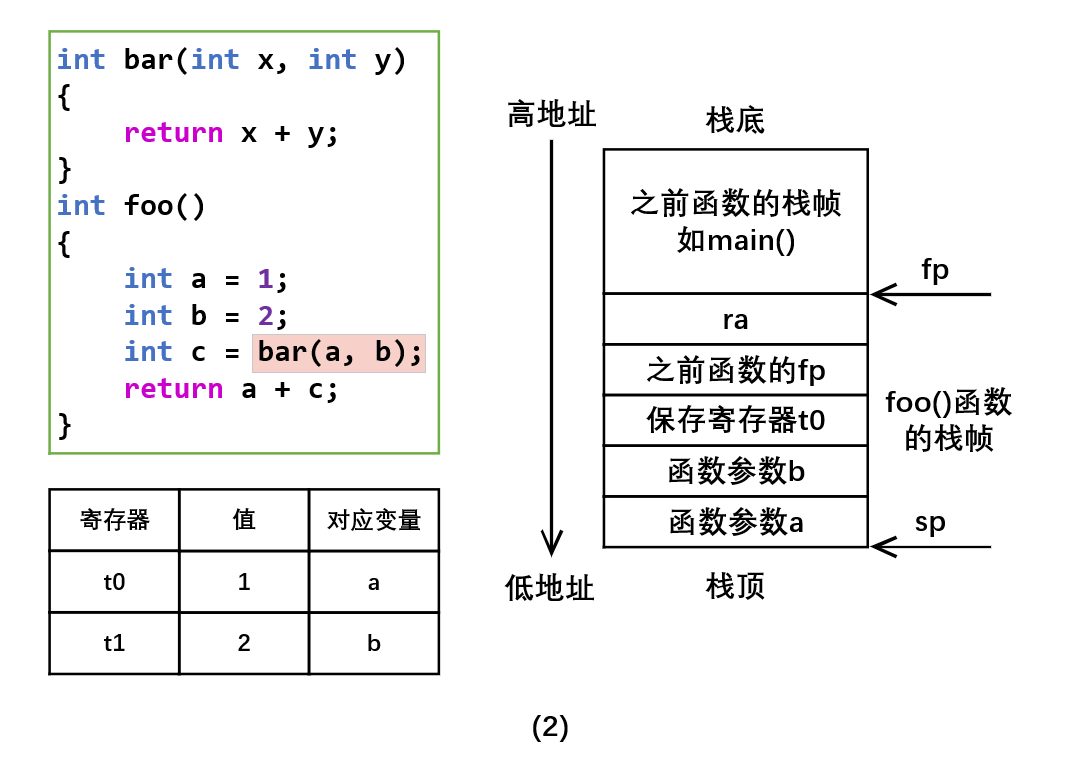
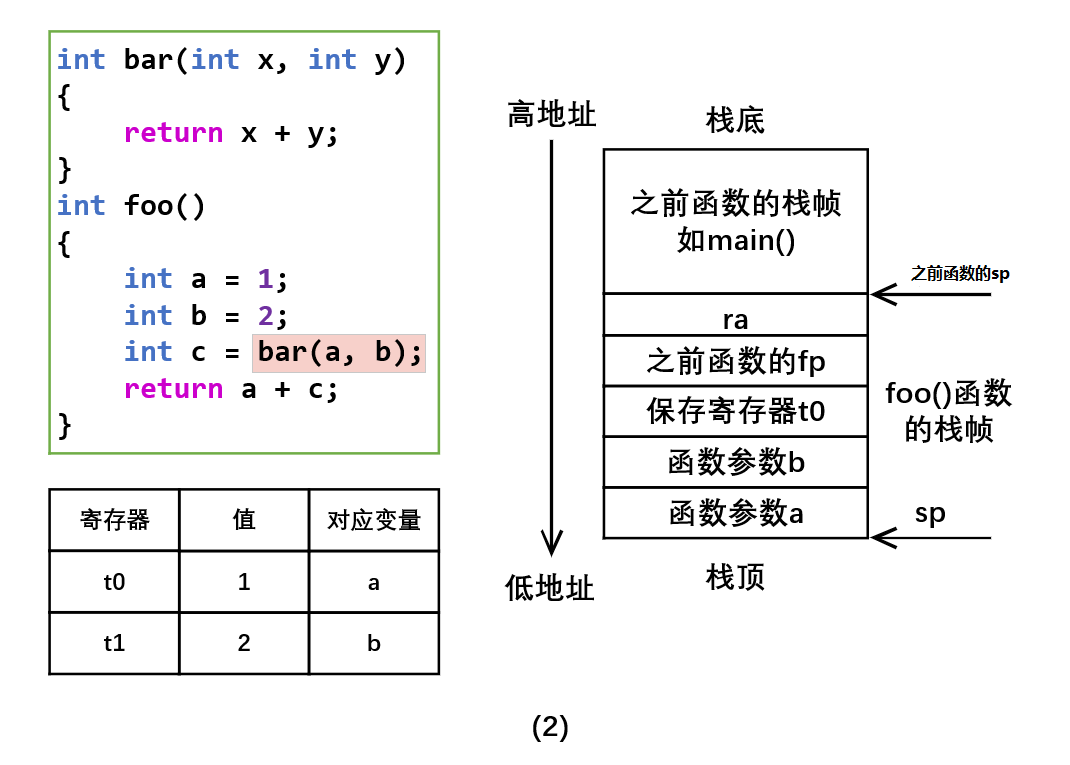
update step 9

Changed region(s): [[0.5551, 0.4209, 0.9561, 0.7817], [0.8636, 0.3307, 0.9561, 0.3908]]

diff --git a/docs/step9/example.md b/docs/step9/example.md
@@ -154,7 +154,6 @@ main_exit:
 
 首先你需要参考之前步骤中实现的方法，**翻译本步骤中新增的中间代码指令**。
 
-
 ### 函数调用
 
 程序代码里的一个函数调用，包含了下面一系列的操作：
@@ -170,6 +169,59 @@ main_exit:
 ### 调用约定
 
 位了简化同学们的实现，实验测例中没有与 gcc 编译的文件相互调用的要求，因此，大家不一定需要实现标准调用约定。你甚至可以完全使用栈来传递参数，而不使用寄存器。但是，如果你想要实现标准调用约定，可以参考下面的内容。
+
+#### 简化版的非标准调用约定
+
+1. caller-saved 和 callee-saved 寄存器
+
+   callee 只需要保存 ra 寄存器。ra 寄存器保存函数返回地址。程序实验框架中提供了数据流分析模块，caller 只需保存活跃变量对应的寄存器内容（数据流分析和活跃变量见 step6）。
+
+2. 函数参数及返回值的传递
+
+   不使用寄存器进行传参，所有参数从右往左压栈，第 1 个参数在栈顶。
+
+   返回值（32 位 int）放在 a0 寄存器中。
+
+### 函数调用过程中的栈帧变化（使用非标准调用约定）
+
+为了帮助大家更好的理解，我们使用上述的**简化版的非标准调用约定**，画出了一段具有代表性的程序，其整个运行过程中栈帧的组成部分以及变化。代表性程序如下：
+
+```C
+int bar (int x, int y) {
+    return x + y;
+}
+int foo () {
+    int a = 1; 
+    int b = 2;
+    int c = foo(a, b);
+    // return a+c 的目的是为了讲解保存活跃变量的情况
+    return a + c;         
+}
+```
+
+![ ](./pics/1.png)
+
+（1） foo 函数被调用，栈帧建立，变量 a 与 b 被分配对应寄存器。
+
+![ ](./pics/2.png)
+
+（2）调用 bar 函数，由于变量 a 在函数调用结束之后还需要被使用（a+c），是活跃变量，需要保存到栈中。另外，按照调用约定对函数参数进行压栈传参。
+
+![ ](./pics/3.png)
+
+（3）bar 函数内部进行运算，主要关注寄存器变化，栈帧方面仅仅是建立了 bar 函数的栈帧。
+
+![ ](./pics/4.png)
+
+（4）bar 函数调用返回，其栈帧被销毁。
+
+![ ](./pics/5.png)
+
+（5）foo 函数调用返回，其栈帧被销毁。
+
+
+接下来详细介绍比较标准的函数调用的步骤和约定，以及函数调用及返回过程中栈帧的变化。
+
 
 #### RISC-V 的标准调用约定
 
@@ -188,9 +240,12 @@ main_exit:
    返回值（32 位 int）放在 a0 寄存器中。
 
 ### 提示
+1. 你可能会注意到，`func`函数先将参数（`a0`, `a1`）保存到了栈上，又取出来使用，这是为了简化实现而做的，尽管我们使用寄存器传参，你可以直接将寄存器中的值保存到栈上（这样也满足了标准调用约定的），然后在后端指定某个临时变量（Temp）在栈上的位置，参考`backend/riscv/riscvasmemitter.py` 中 `class RiscvSubroutineEmitter(SubroutineEmitter):` 的实现，其中`offsets`变量用于保存临时变量在栈上的位置。
+2. riscv中函数调用时会将返回地址保存到`ra`寄存器中。`ret`指令则会返回`ra`寄存器保存的地址处。
+3. 你可能还会好奇，这里的`ra`寄存器为什么没有保存到栈上，参考 `emitEnd` 函数，我们可以只保存和恢复一个函数中使用的寄存器。
+4. 这部分实验有较大难度，建议早点开始。
+5. 如果你发现后端代码有不便之处，可以按照自己的思路任意修改。
 
-1. 这部分实验有较大难度，建议早点开始。
-2. 框架后端有关栈帧建立和销毁的实际方式和文档中描述的略有不同（没有保存和使用fp）。如果你发现后端代码有不便之处，可以按照自己的思路任意修改。
 
 # 思考题
 1. 你更倾向采纳哪一种中间表示中的函数调用指令的设计（一整条函数调用 vs 传参和调用分离）？写一些你认为两种设计方案各自的优劣之处。
